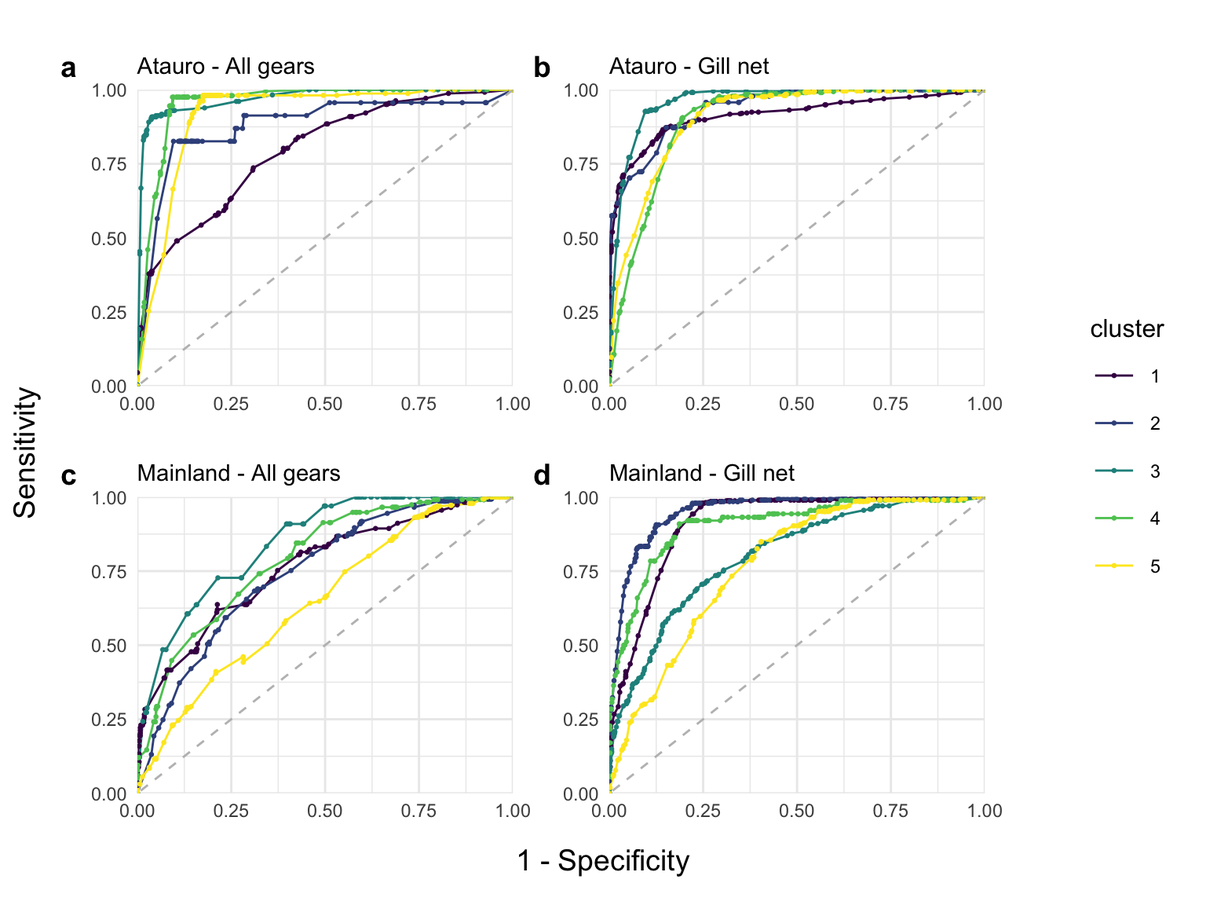
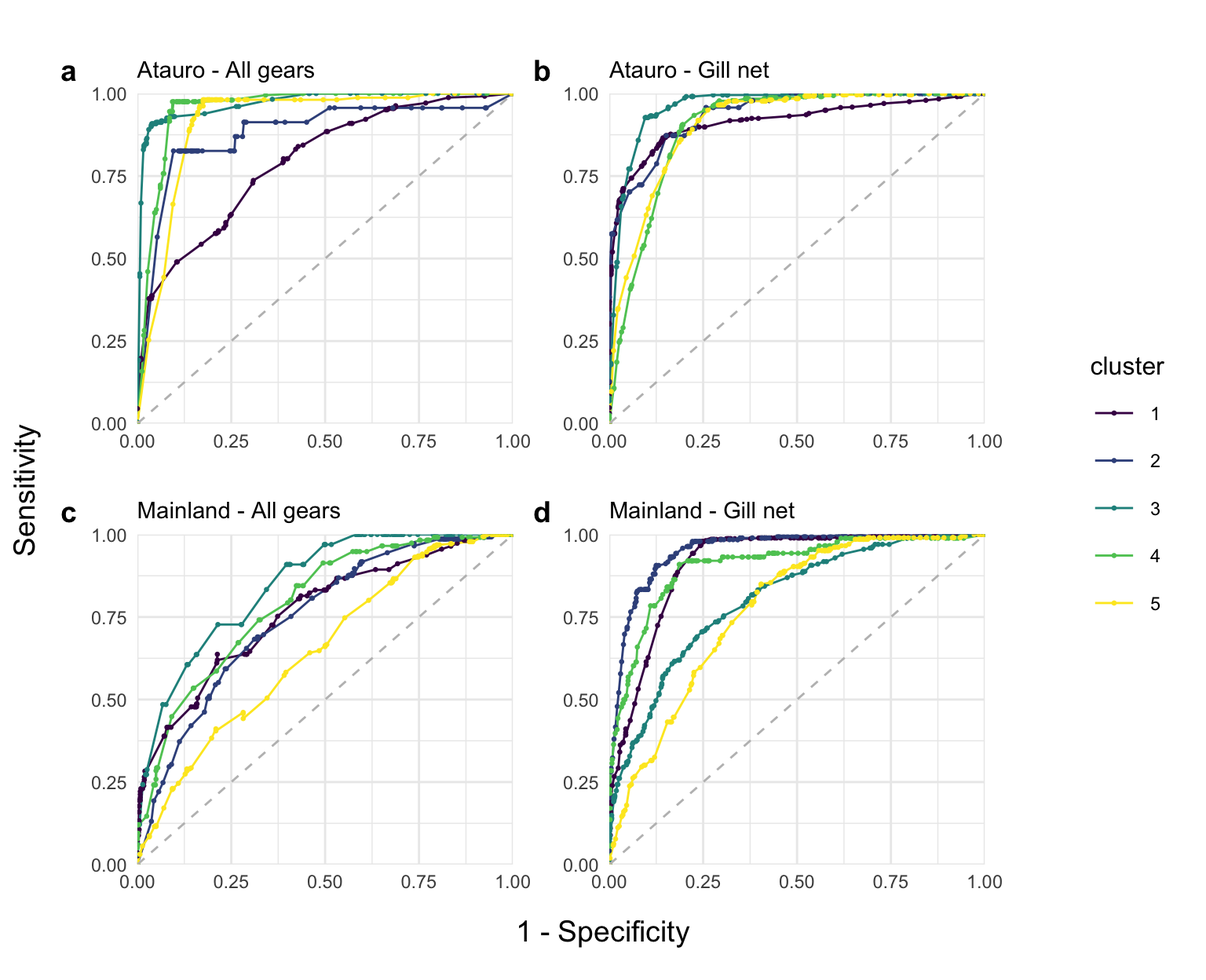
Test font change

diff --git a/docs/highlight.html b/docs/highlight.html
@@ -6,7 +6,7 @@
   <meta http-equiv="X-UA-Compatible" content="IE=edge" />
   <title>3 Highlight statistics | Modelling scenarios for nutrient-sensitive fisheries management</title>
   <meta name="description" content="3 Highlight statistics | Modelling scenarios for nutrient-sensitive fisheries management" />
-  <meta name="generator" content="bookdown 0.33 and GitBook 2.6.7" />
+  <meta name="generator" content="bookdown 0.36 and GitBook 2.6.7" />
 
   <meta property="og:title" content="3 Highlight statistics | Modelling scenarios for nutrient-sensitive fisheries management" />
   <meta property="og:type" content="book" />
@@ -62,6 +62,10 @@
 
 
 
+<style type="text/css">
+  
+  div.hanging-indent{margin-left: 1.5em; text-indent: -1.5em;}
+</style>
 
 <link rel="stylesheet" href="style.css" type="text/css" />
 </head>
@@ -184,8 +188,8 @@
 <ul>
 <li><strong>POPULATION MEETING RNI REQUIREMENTS</strong>: Percentage of the population meeting the RNI requirements in each municipality: <span class="math inline">\(\frac{Number\ of\ people\ supplied\ daily}{Municipality\ population} \times 100\)</span></li>
 </ul>
-<div class="reactable html-widget html-fill-item-overflow-hidden html-fill-item" id="htmlwidget-5ddebd04dfa8fb1aed57" style="width:auto;height:auto;"></div>
-<script type="application/json" data-for="htmlwidget-5ddebd04dfa8fb1aed57">{"x":{"tag":{"name":"Reactable","attribs":{"data":{"region":["Ainaro (   61,741)","Ainaro (   61,741)","Ainaro (   61,741)","Ainaro (   61,741)","Ainaro (   61,741)","Ainaro (   61,741)","Ainaro (   61,741)","Atauro (    8,940)","Atauro (    8,940)","Atauro (    8,940)","Atauro (    8,940)","Atauro (    8,940)","Atauro (    8,940)","Atauro (    8,940)","Baucau (  115,629)","Baucau (  115,629)","Baucau (  115,629)","Baucau (  115,629)","Baucau (  115,629)","Baucau (  115,629)","Baucau (  115,629)","Bobonaro (   91,349)","Bobonaro (   91,349)","Bobonaro (   91,349)","Bobonaro (   91,349)","Bobonaro (   91,349)","Bobonaro (   91,349)","Bobonaro (   91,349)","Covalima (   63,137)","Covalima (   63,137)","Covalima (   63,137)","Covalima (   63,137)","Covalima (   63,137)","Covalima (   63,137)","Covalima (   63,137)","Dili (  280,684)","Dili (  280,684)","Dili (  280,684)","Dili (  280,684)","Dili (  280,684)","Dili (  280,684)","Dili (  280,684)","Lautem (   60,015)","Lautem (   60,015)","Lautem (   60,015)","Lautem (   60,015)","Lautem (   60,015)","Lautem (   60,015)","Lautem (   60,015)","Liquica (   70,638)","Liquica (   70,638)","Liquica (   70,638)","Liquica (   70,638)","Liquica (   70,638)","Liquica (   70,638)","Liquica (   70,638)","Manatuto (   43,765)","Manatuto (   43,765)","Manatuto (   43,765)","Manatuto (   43,765)","Manatuto (   43,765)","Manatuto (   43,765)","Manatuto (   43,765)","Manufahi (   51,751)","Manufahi (   51,751)","Manufahi (   51,751)","Manufahi (   51,751)","Manufahi (   51,751)","Manufahi (   51,751)","Manufahi (   51,751)","Oecusse (   69,323)","Oecusse (   69,323)","Oecusse (   69,323)","Oecusse (   69,323)","Oecusse (   69,323)","Oecusse (   69,323)","Oecusse (   69,323)","Viqueque (   69,238)","Viqueque (   69,238)","Viqueque (   69,238)","Viqueque (   69,238)","Viqueque (   69,238)","Viqueque (   69,238)","Viqueque (   69,238)","All (1,148,745)","All (1,148,745)","All (1,148,745)","All (1,148,745)","All (1,148,745)","All (1,148,745)","All (1,148,745)"],"nutrient":["selenium","zinc","protein","omega3","calcium","iron","vitaminA","selenium","zinc","protein","omega3","calcium","iron","vitaminA","selenium","zinc","protein","omega3","calcium","iron","vitaminA","selenium","zinc","protein","omega3","calcium","iron","vitaminA","selenium","zinc","protein","omega3","calcium","iron","vitaminA","selenium","zinc","protein","omega3","calcium","iron","vitaminA","selenium","zinc","protein","omega3","calcium","iron","vitaminA","selenium","zinc","protein","omega3","calcium","iron","vitaminA","selenium","zinc","protein","omega3","calcium","iron","vitaminA","selenium","zinc","protein","omega3","calcium","iron","vitaminA","selenium","zinc","protein","omega3","calcium","iron","vitaminA","selenium","zinc","protein","omega3","calcium","iron","vitaminA","calcium","iron","omega3","protein","selenium","vitaminA","zinc"],"annual_kg":[0.0026,0.0734,1281.2364,85.8322,6.2225,0.053,0.0036,0.2565,7.0353,110624.3908,1321.4139,431.904,6.1758,0.3827,0.2712,3.7216,56770.4322,2293.123,1294.9779,5.7107,0.0557,0.4636,19.5957,285945.184,13982.3003,2002.7687,12.288,0.7547,0.1318,1.7577,29712.9206,770.5511,569.2205,2.995,0.0481,0.0792,1.5363,24989.4804,572.0959,201.1015,1.5263,0.083,0.6904,9.5248,175558.2303,3186.1136,2475.1306,13.5612,0.4665,0.2455,5.9866,103404.7398,2364.4126,380.12,5.2878,0.1916,0.5508,13.2767,206736.8211,13386.5385,2047.5802,12.5747,0.3108,0.0332,0.7118,10695.7839,667.8914,153.0258,0.7168,0.018,0.325,7.9081,145263.3251,2921.4496,512.818,7.3917,0.448,0.2048,3.0245,76786.0186,1557.8762,322.3643,3.4633,0.3158,10397.2341,71.7444,43109.5984,1227768.5633,3.2547,3.0784,74.1526],"people_supplied_daily":[1382.619,205.335,381.547,400.062,85.239,24.718,98.69,135121.57,19668.121,32943.535,6159.088,5916.493,2877.544,10484.156,142877.505,10404.216,16906.025,10688.208,17739.424,2660.857,1525.225,244282.433,54782.499,85153.42,65171.269,27435.188,5725.485,20677.599,69449.405,4913.826,8848.398,3591.526,7797.541,1395.478,1318.236,41727.626,4294.984,7441.775,2666.53,2754.815,711.145,2273.669,363760.896,26627.969,52280.593,14850.422,33905.898,6318.702,12780.859,129370.826,16736.245,30793.55,11020.488,5207.124,2463.806,5250.659,290219.089,37116.915,61565.462,62394.434,28049.044,5859.049,8514.013,17497.344,1990.066,3185.165,3113.031,2096.244,333.996,493.363,171212.999,22108.315,43258.882,13616.828,7024.904,3444.1,12273.328,107898.945,8455.389,22866.593,7261.235,4415.949,1613.701,8651.247,142427.864,33428.582,200933.122,365624.944,1714801.258,84341.045,207303.882],"percent_population_supplied":[2.239,0.333,0.618,0.648,0.138,0.04,0.16,1511.427,220.001,368.496,68.894,66.18,32.187,117.272,123.565,8.998,14.621,9.244,15.342,2.301,1.319,267.417,59.971,93.218,71.343,30.033,6.268,22.636,109.998,7.783,14.015,5.688,12.35,2.21,2.088,14.866,1.53,2.651,0.95,0.981,0.253,0.81,606.117,44.369,87.113,24.745,56.496,10.529,21.296,183.146,23.693,43.593,15.601,7.372,3.488,7.433,663.131,84.81,140.673,142.567,64.09,13.388,19.454,33.811,3.845,6.155,6.015,4.051,0.645,0.953,246.979,31.892,62.402,19.643,10.134,4.968,17.705,155.838,12.212,33.026,10.487,6.378,2.331,12.495,12.399,2.91,17.492,31.828,149.276,7.342,18.046]},"columns":[{"id":"region","name":"Municipality (population)","type":"factor","minWidth":140,"align":"center","sortable":false,"style":"function(rowInfo, column, state) {\n        const firstSorted = state.sorted[0]\n        if (!firstSorted || firstSorted.id === 'region') {\n          const prevRow = state.pageRows[rowInfo.viewIndex - 1]\n          if (prevRow && rowInfo.values['region'] === prevRow['region']) {\n            return { visibility: 'hidden' }\n          }\n        }\n      }"},{"id":"nutrient","name":"Nutrient","type":"character","minWidth":100,"align":"center"},{"id":"annual_kg","name":"Annual supply (Kg)","type":"numeric","minWidth":100,"align":"center","format":{"cell":{"separators":true},"aggregated":{"separators":true}},"style":[{"background":"#F5FCDF"},{"background":"#F4FBDD"},{"background":"#9CD7AC"},{"background":"#BDE6B2"},{"background":"#E0F4C5"},{"background":"#F4FBDE"},{"background":"#F4FBDE"},{"background":"#F4FBDB"},{"background":"#DFF4C4"},{"background":"#59BDAB"},{"background":"#9BD6AC"},{"background":"#A9DDAE"},{"background":"#E0F4C5"},{"background":"#F3FBDA"},{"background":"#F4FBDB"},{"background":"#E7F7CA"},{"background":"#64C1AB"},{"background":"#94D3AB"},{"background":"#9BD7AC"},{"background":"#E2F5C6"},{"background":"#F4FBDE"},{"background":"#F3FBD9"},{"background":"#D0EEB9"},{"background":"#4BB8AB"},{"background":"#79C9AB"},{"background":"#96D4AB"},{"background":"#D7F1BE"},{"background":"#F3FBD6"},{"background":"#F4FBDD"},{"background":"#EFFAD0"},{"background":"#6EC5AB"},{"background":"#A2DAAD"},{"background":"#A6DBAE"},{"background":"#EAF8CC"},{"background":"#F4FBDE"},{"background":"#F4FBDD"},{"background":"#F1FAD1"},{"background":"#70C6AB"},{"background":"#A5DBAE"},{"background":"#B2E1B0"},{"background":"#F1FAD1"},{"background":"#F4FBDD"},{"background":"#F3FBD7"},{"background":"#DAF2C1"},{"background":"#52BBAB"},{"background":"#90D1AB"},{"background":"#93D3AB"},{"background":"#D5F0BD"},{"background":"#F3FBD9"},{"background":"#F4FBDB"},{"background":"#E1F4C5"},{"background":"#5ABEAB"},{"background":"#94D3AB"},{"background":"#AADEAE"},{"background":"#E3F5C7"},{"background":"#F4FBDC"},{"background":"#F3FBD8"},{"background":"#D6F0BD"},{"background":"#50BAAB"},{"background":"#7AC9AB"},{"background":"#96D4AB"},{"background":"#D7F1BE"},{"background":"#F4FBDB"},{"background":"#F4FBDE"},{"background":"#F3FBD7"},{"background":"#7DCBAB"},{"background":"#A4DAAD"},{"background":"#B6E3B0"},{"background":"#F3FBD7"},{"background":"#F4FBDE"},{"background":"#F4FBDA"},{"background":"#DDF3C3"},{"background":"#55BCAB"},{"background":"#91D2AB"},{"background":"#A7DCAE"},{"background":"#DEF3C3"},{"background":"#F3FBD9"},{"background":"#F4FBDC"},{"background":"#E9F8CC"},{"background":"#5FBFAB"},{"background":"#99D6AC"},{"background":"#ACDFAF"},{"background":"#E8F7CA"},{"background":"#F4FBDA"},{"background":"#7ECBAB"},{"background":"#BFE7B2"},{"background":"#68C3AB"},{"background":"#35B0AB"},{"background":"#E9F7CB"},{"background":"#E9F7CB"},{"background":"#BEE7B2"}]},{"id":"people_supplied_daily","name":"N. people supplied daily","type":"numeric","minWidth":100,"align":"center","format":{"cell":{"separators":true},"aggregated":{"separators":true}},"style":[{"background":"#B6E3B0"},{"background":"#D6F1BE"},{"background":"#CAECB5"},{"background":"#C9ECB4"},{"background":"#E7F7CA"},{"background":"#F5FCDF"},{"background":"#E4F6C8"},{"background":"#66C2AB"},{"background":"#8BD0AB"},{"background":"#81CCAB"},{"background":"#9ED8AC"},{"background":"#9FD8AD"},{"background":"#AADEAE"},{"background":"#96D4AB"},{"background":"#65C1AB"},{"background":"#96D4AB"},{"background":"#8ED1AB"},{"background":"#96D4AB"},{"background":"#8DD0AB"},{"background":"#ACDEAF"},{"background":"#B4E2B0"},{"background":"#5ABEAB"},{"background":"#77C8AB"},{"background":"#6FC5AB"},{"background":"#74C7AB"},{"background":"#84CDAB"},{"background":"#A0D9AD"},{"background":"#8ACFAB"},{"background":"#73C7AB"},{"background":"#A2DAAD"},{"background":"#99D5AC"},{"background":"#A7DCAE"},{"background":"#9BD6AC"},{"background":"#B6E3B0"},{"background":"#B6E3B0"},{"background":"#7CCAAB"},{"background":"#A4DBAD"},{"background":"#9CD7AC"},{"background":"#ABDEAF"},{"background":"#ABDEAF"},{"background":"#C0E8B2"},{"background":"#AEDFAF"},{"background":"#52BBAB"},{"background":"#85CDAB"},{"background":"#78C9AB"},{"background":"#90D2AB"},{"background":"#80CCAB"},{"background":"#9ED8AC"},{"background":"#93D3AB"},{"background":"#66C2AB"},{"background":"#8ED1AB"},{"background":"#82CCAB"},{"background":"#95D4AB"},{"background":"#A1D9AD"},{"background":"#ADDFAF"},{"background":"#A1D9AD"},{"background":"#57BCAB"},{"background":"#7FCBAB"},{"background":"#75C7AB"},{"background":"#75C7AB"},{"background":"#84CDAB"},{"background":"#9FD8AD"},{"background":"#99D6AC"},{"background":"#8DD1AB"},{"background":"#B0E0AF"},{"background":"#A9DDAE"},{"background":"#A9DDAE"},{"background":"#AFE0AF"},{"background":"#CDEDB7"},{"background":"#C6EAB3"},{"background":"#61C0AB"},{"background":"#89CFAB"},{"background":"#7CCAAB"},{"background":"#92D2AB"},{"background":"#9CD7AC"},{"background":"#A8DCAE"},{"background":"#94D3AB"},{"background":"#6AC3AB"},{"background":"#9AD6AC"},{"background":"#88CFAB"},{"background":"#9CD7AC"},{"background":"#A4DAAD"},{"background":"#B3E2B0"},{"background":"#99D6AC"},{"background":"#65C1AB"},{"background":"#81CCAB"},{"background":"#5EBFAB"},{"background":"#52BBAB"},{"background":"#35B0AB"},{"background":"#6FC5AB"},{"background":"#5DBFAB"}]},{"id":"percent_population_supplied","name":"Population meeting RNI requirements","type":"numeric","minWidth":100,"align":"center","format":{"cell":{"suffix":"%","separators":true},"aggregated":{"suffix":"%","separators":true}},"html":true,"style":[{"background":"#DDF3C3"},{"background":"#F3FBD7"},{"background":"#F2FBD2"},{"background":"#F1FAD1"},{"background":"#F4FBDC"},{"background":"#F5FCDF"},{"background":"#F4FBDB"},{"background":"#35B0AB"},{"background":"#6DC5AB"},{"background":"#5EBFAB"},{"background":"#8FD1AB"},{"background":"#90D2AB"},{"background":"#A2D9AD"},{"background":"#80CBAB"},{"background":"#7ECBAB"},{"background":"#BEE7B2"},{"background":"#B3E2B0"},{"background":"#BDE6B2"},{"background":"#B2E1B0"},{"background":"#DCF3C2"},{"background":"#E7F7CA"},{"background":"#68C2AB"},{"background":"#93D3AB"},{"background":"#86CEAB"},{"background":"#8ED1AB"},{"background":"#A3DAAD"},{"background":"#C6EAB3"},{"background":"#AADDAE"},{"background":"#82CCAB"},{"background":"#C1E8B2"},{"background":"#B4E2B0"},{"background":"#C8EBB3"},{"background":"#B7E3B1"},{"background":"#DDF3C3"},{"background":"#DEF4C4"},{"background":"#B3E2B0"},{"background":"#E4F6C8"},{"background":"#D9F2C0"},{"background":"#ECF9CE"},{"background":"#ECF8CD"},{"background":"#F3FBD9"},{"background":"#EFF9CF"},{"background":"#4FBAAB"},{"background":"#9AD6AC"},{"background":"#88CFAB"},{"background":"#A8DCAE"},{"background":"#94D3AB"},{"background":"#BBE5B1"},{"background":"#ABDEAF"},{"background":"#73C7AB"},{"background":"#A9DDAE"},{"background":"#9BD6AC"},{"background":"#B2E1B0"},{"background":"#C2E9B2"},{"background":"#D3EFBB"},{"background":"#C2E9B2"},{"background":"#4DB9AB"},{"background":"#89CFAB"},{"background":"#7ACAAB"},{"background":"#7AC9AB"},{"background":"#91D2AB"},{"background":"#B5E3B0"},{"background":"#ADDFAF"},{"background":"#A0D9AD"},{"background":"#D1EFBA"},{"background":"#C6EAB3"},{"background":"#C6EBB3"},{"background":"#D0EEB9"},{"background":"#F1FAD1"},{"background":"#ECF9CE"},{"background":"#6AC3AB"},{"background":"#A2DAAD"},{"background":"#92D2AB"},{"background":"#ADDFAF"},{"background":"#BBE5B1"},{"background":"#CBECB5"},{"background":"#AFE0AF"},{"background":"#77C8AB"},{"background":"#B7E4B1"},{"background":"#A1D9AD"},{"background":"#BBE5B1"},{"background":"#C5EAB3"},{"background":"#DCF3C2"},{"background":"#B7E3B1"},{"background":"#B7E3B1"},{"background":"#D7F1BE"},{"background":"#AFE0AF"},{"background":"#A2DAAD"},{"background":"#79C9AB"},{"background":"#C2E9B2"},{"background":"#AFE0AF"}]}],"groupBy":["region"],"filterable":true,"pagination":false,"defaultExpanded":true,"outlined":true,"rowStyle":"\n    function(rowInfo, state) {\n      // Ignore padding rows\n      if (!rowInfo) return\n\n      // Add horizontal separators between groups when sorting by school\n      const firstSorted = state.sorted[0]\n      if (firstSorted && firstSorted.id === 'region') {\n        const nextRow = state.pageRows[rowInfo.viewIndex + 1]\n        if (nextRow && rowInfo.values['region'] !== nextRow['region']) {\n          // Use box-shadow to add a 2px border without taking extra space\n          return { boxShadow: 'inset 0 -2px 0 rgba(0, 0, 0, 0.1)' }\n        }\n      }\n    }\n  ","theme":{"color":"#222222","backgroundColor":"#ffffff","borderColor":"#dddddd","borderWidth":"1px","stripedColor":"#dddddd","highlightColor":"#f0f0f0","cellPadding":5,"tableStyle":{"fontSize":14,"borderBottom":"3px solid #222222"},"headerStyle":{"borderWidth":"3px","paddingTop":"12px","verticalAlign":"bottom","textAlign":"bottom","background":"#ffffff","textTransform":"uppercase","borderColor":"#222222","color":"#000000","&:hover":{"background":"#dddddd"},"&[aria-sort='ascending'], &[aria-sort='descending']":{"background":"#5b5e5f","color":"#ffffff"},"borderColor.1":"#333","fontSize":12},"groupHeaderStyle":{"&:not(:empty)":{"paddingBottom":"3px","verticalAlign":"bottom","textAlign":"bottom","backgroundColor":"#ffffff","textTransform":"uppercase","fontSize":12,"color":"#222222"}},"rowSelectedStyle":{"backgroundColor":"#dddddd"},"cellStyle":{"display":"flex","flexDirection":"column","justifyContent":"center"},"inputStyle":{"backgroundColor":"#ffffff","color":"#222222"},"searchInputStyle":{"textTransform":"uppercase","color":"#222222","fontSize":"14px"},"paginationStyle":{"textTransform":"uppercase","fontSize":"14px"},"pageButtonStyle":{"textTransform":"uppercase","fontSize":"14px"}},"dataKey":"b0a6206a93afb054d0c5c74618b583fe"},"children":[]},"class":"reactR_markup"},"evals":["tag.attribs.columns.0.style","tag.attribs.rowStyle"],"jsHooks":[]}</script>
+<div class="reactable html-widget html-fill-item-overflow-hidden html-fill-item" id="htmlwidget-09d8550bf6b0f35de82b" style="width:auto;height:auto;"></div>
+<script type="application/json" data-for="htmlwidget-09d8550bf6b0f35de82b">{"x":{"tag":{"name":"Reactable","attribs":{"data":{"region":["Ainaro (   61,741)","Ainaro (   61,741)","Ainaro (   61,741)","Ainaro (   61,741)","Ainaro (   61,741)","Ainaro (   61,741)","Ainaro (   61,741)","Atauro (    8,940)","Atauro (    8,940)","Atauro (    8,940)","Atauro (    8,940)","Atauro (    8,940)","Atauro (    8,940)","Atauro (    8,940)","Baucau (  115,629)","Baucau (  115,629)","Baucau (  115,629)","Baucau (  115,629)","Baucau (  115,629)","Baucau (  115,629)","Baucau (  115,629)","Bobonaro (   91,349)","Bobonaro (   91,349)","Bobonaro (   91,349)","Bobonaro (   91,349)","Bobonaro (   91,349)","Bobonaro (   91,349)","Bobonaro (   91,349)","Covalima (   63,137)","Covalima (   63,137)","Covalima (   63,137)","Covalima (   63,137)","Covalima (   63,137)","Covalima (   63,137)","Covalima (   63,137)","Dili (  280,684)","Dili (  280,684)","Dili (  280,684)","Dili (  280,684)","Dili (  280,684)","Dili (  280,684)","Dili (  280,684)","Lautem (   60,015)","Lautem (   60,015)","Lautem (   60,015)","Lautem (   60,015)","Lautem (   60,015)","Lautem (   60,015)","Lautem (   60,015)","Liquica (   70,638)","Liquica (   70,638)","Liquica (   70,638)","Liquica (   70,638)","Liquica (   70,638)","Liquica (   70,638)","Liquica (   70,638)","Manatuto (   43,765)","Manatuto (   43,765)","Manatuto (   43,765)","Manatuto (   43,765)","Manatuto (   43,765)","Manatuto (   43,765)","Manatuto (   43,765)","Manufahi (   51,751)","Manufahi (   51,751)","Manufahi (   51,751)","Manufahi (   51,751)","Manufahi (   51,751)","Manufahi (   51,751)","Manufahi (   51,751)","Oecusse (   69,323)","Oecusse (   69,323)","Oecusse (   69,323)","Oecusse (   69,323)","Oecusse (   69,323)","Oecusse (   69,323)","Oecusse (   69,323)","Viqueque (   69,238)","Viqueque (   69,238)","Viqueque (   69,238)","Viqueque (   69,238)","Viqueque (   69,238)","Viqueque (   69,238)","Viqueque (   69,238)","All (1,148,745)","All (1,148,745)","All (1,148,745)","All (1,148,745)","All (1,148,745)","All (1,148,745)","All (1,148,745)"],"nutrient":["selenium","zinc","protein","omega3","calcium","iron","vitaminA","selenium","zinc","protein","omega3","calcium","iron","vitaminA","selenium","zinc","protein","omega3","calcium","iron","vitaminA","selenium","zinc","protein","omega3","calcium","iron","vitaminA","selenium","zinc","protein","omega3","calcium","iron","vitaminA","selenium","zinc","protein","omega3","calcium","iron","vitaminA","selenium","zinc","protein","omega3","calcium","iron","vitaminA","selenium","zinc","protein","omega3","calcium","iron","vitaminA","selenium","zinc","protein","omega3","calcium","iron","vitaminA","selenium","zinc","protein","omega3","calcium","iron","vitaminA","selenium","zinc","protein","omega3","calcium","iron","vitaminA","selenium","zinc","protein","omega3","calcium","iron","vitaminA","calcium","iron","omega3","protein","selenium","vitaminA","zinc"],"annual_kg":[0.0026,0.0734,1281.2364,85.8322,6.2225,0.053,0.0036,0.2565,7.0353,110624.3908,1321.4139,431.904,6.1758,0.3827,0.2712,3.7216,56770.4322,2293.123,1294.9779,5.7107,0.0557,0.4636,19.5957,285945.184,13982.3003,2002.7687,12.288,0.7547,0.1318,1.7577,29712.9206,770.5511,569.2205,2.995,0.0481,0.0792,1.5363,24989.4804,572.0959,201.1015,1.5263,0.083,0.6904,9.5248,175558.2303,3186.1136,2475.1306,13.5612,0.4665,0.2455,5.9866,103404.7398,2364.4126,380.12,5.2878,0.1916,0.5508,13.2767,206736.8211,13386.5385,2047.5802,12.5747,0.3108,0.0332,0.7118,10695.7839,667.8914,153.0258,0.7168,0.018,0.325,7.9081,145263.3251,2921.4496,512.818,7.3917,0.448,0.2048,3.0245,76786.0186,1557.8762,322.3643,3.4633,0.3158,10397.2341,71.7444,43109.5984,1227768.5633,3.2547,3.0784,74.1526],"people_supplied_daily":[1382.619,205.335,381.547,400.062,85.239,24.718,98.69,135121.57,19668.121,32943.535,6159.088,5916.493,2877.544,10484.156,142877.505,10404.216,16906.025,10688.208,17739.424,2660.857,1525.225,244282.433,54782.499,85153.42,65171.269,27435.188,5725.485,20677.599,69449.405,4913.826,8848.398,3591.526,7797.541,1395.478,1318.236,41727.626,4294.984,7441.775,2666.53,2754.815,711.145,2273.669,363760.896,26627.969,52280.593,14850.422,33905.898,6318.702,12780.859,129370.826,16736.245,30793.55,11020.488,5207.124,2463.806,5250.659,290219.089,37116.915,61565.462,62394.434,28049.044,5859.049,8514.013,17497.344,1990.066,3185.165,3113.031,2096.244,333.996,493.363,171212.999,22108.315,43258.882,13616.828,7024.904,3444.1,12273.328,107898.945,8455.389,22866.593,7261.235,4415.949,1613.701,8651.247,142427.864,33428.582,200933.122,365624.944,1714801.258,84341.045,207303.882],"percent_population_supplied":[2.239,0.333,0.618,0.648,0.138,0.04,0.16,1511.427,220.001,368.496,68.894,66.18,32.187,117.272,123.565,8.998,14.621,9.244,15.342,2.301,1.319,267.417,59.971,93.218,71.343,30.033,6.268,22.636,109.998,7.783,14.015,5.688,12.35,2.21,2.088,14.866,1.53,2.651,0.95,0.981,0.253,0.81,606.117,44.369,87.113,24.745,56.496,10.529,21.296,183.146,23.693,43.593,15.601,7.372,3.488,7.433,663.131,84.81,140.673,142.567,64.09,13.388,19.454,33.811,3.845,6.155,6.015,4.051,0.645,0.953,246.979,31.892,62.402,19.643,10.134,4.968,17.705,155.838,12.212,33.026,10.487,6.378,2.331,12.495,12.399,2.91,17.492,31.828,149.276,7.342,18.046]},"columns":[{"id":"region","name":"Municipality (population)","type":"factor","minWidth":140,"align":"center","sortable":false,"style":"function(rowInfo, column, state) {\n        const firstSorted = state.sorted[0]\n        if (!firstSorted || firstSorted.id === 'region') {\n          const prevRow = state.pageRows[rowInfo.viewIndex - 1]\n          if (prevRow && rowInfo.values['region'] === prevRow['region']) {\n            return { visibility: 'hidden' }\n          }\n        }\n      }"},{"id":"nutrient","name":"Nutrient","type":"character","minWidth":100,"align":"center"},{"id":"annual_kg","name":"Annual supply (Kg)","type":"numeric","minWidth":100,"align":"center","format":{"cell":{"separators":true},"aggregated":{"separators":true}},"style":[{"background":"#F5FCDF"},{"background":"#F4FBDD"},{"background":"#9CD7AC"},{"background":"#BDE6B2"},{"background":"#E0F4C5"},{"background":"#F4FBDE"},{"background":"#F4FBDE"},{"background":"#F4FBDB"},{"background":"#DFF4C4"},{"background":"#59BDAB"},{"background":"#9BD6AC"},{"background":"#A9DDAE"},{"background":"#E0F4C5"},{"background":"#F3FBDA"},{"background":"#F4FBDB"},{"background":"#E7F7CA"},{"background":"#64C1AB"},{"background":"#94D3AB"},{"background":"#9BD7AC"},{"background":"#E2F5C6"},{"background":"#F4FBDE"},{"background":"#F3FBD9"},{"background":"#D0EEB9"},{"background":"#4BB8AB"},{"background":"#79C9AB"},{"background":"#96D4AB"},{"background":"#D7F1BE"},{"background":"#F3FBD6"},{"background":"#F4FBDD"},{"background":"#EFFAD0"},{"background":"#6EC5AB"},{"background":"#A2DAAD"},{"background":"#A6DBAE"},{"background":"#EAF8CC"},{"background":"#F4FBDE"},{"background":"#F4FBDD"},{"background":"#F1FAD1"},{"background":"#70C6AB"},{"background":"#A5DBAE"},{"background":"#B2E1B0"},{"background":"#F1FAD1"},{"background":"#F4FBDD"},{"background":"#F3FBD7"},{"background":"#DAF2C1"},{"background":"#52BBAB"},{"background":"#90D1AB"},{"background":"#93D3AB"},{"background":"#D5F0BD"},{"background":"#F3FBD9"},{"background":"#F4FBDB"},{"background":"#E1F4C5"},{"background":"#5ABEAB"},{"background":"#94D3AB"},{"background":"#AADEAE"},{"background":"#E3F5C7"},{"background":"#F4FBDC"},{"background":"#F3FBD8"},{"background":"#D6F0BD"},{"background":"#50BAAB"},{"background":"#7AC9AB"},{"background":"#96D4AB"},{"background":"#D7F1BE"},{"background":"#F4FBDB"},{"background":"#F4FBDE"},{"background":"#F3FBD7"},{"background":"#7DCBAB"},{"background":"#A4DAAD"},{"background":"#B6E3B0"},{"background":"#F3FBD7"},{"background":"#F4FBDE"},{"background":"#F4FBDA"},{"background":"#DDF3C3"},{"background":"#55BCAB"},{"background":"#91D2AB"},{"background":"#A7DCAE"},{"background":"#DEF3C3"},{"background":"#F3FBD9"},{"background":"#F4FBDC"},{"background":"#E9F8CC"},{"background":"#5FBFAB"},{"background":"#99D6AC"},{"background":"#ACDFAF"},{"background":"#E8F7CA"},{"background":"#F4FBDA"},{"background":"#7ECBAB"},{"background":"#BFE7B2"},{"background":"#68C3AB"},{"background":"#35B0AB"},{"background":"#E9F7CB"},{"background":"#E9F7CB"},{"background":"#BEE7B2"}]},{"id":"people_supplied_daily","name":"N. people supplied daily","type":"numeric","minWidth":100,"align":"center","format":{"cell":{"separators":true},"aggregated":{"separators":true}},"style":[{"background":"#B6E3B0"},{"background":"#D6F1BE"},{"background":"#CAECB5"},{"background":"#C9ECB4"},{"background":"#E7F7CA"},{"background":"#F5FCDF"},{"background":"#E4F6C8"},{"background":"#66C2AB"},{"background":"#8BD0AB"},{"background":"#81CCAB"},{"background":"#9ED8AC"},{"background":"#9FD8AD"},{"background":"#AADEAE"},{"background":"#96D4AB"},{"background":"#65C1AB"},{"background":"#96D4AB"},{"background":"#8ED1AB"},{"background":"#96D4AB"},{"background":"#8DD0AB"},{"background":"#ACDEAF"},{"background":"#B4E2B0"},{"background":"#5ABEAB"},{"background":"#77C8AB"},{"background":"#6FC5AB"},{"background":"#74C7AB"},{"background":"#84CDAB"},{"background":"#A0D9AD"},{"background":"#8ACFAB"},{"background":"#73C7AB"},{"background":"#A2DAAD"},{"background":"#99D5AC"},{"background":"#A7DCAE"},{"background":"#9BD6AC"},{"background":"#B6E3B0"},{"background":"#B6E3B0"},{"background":"#7CCAAB"},{"background":"#A4DBAD"},{"background":"#9CD7AC"},{"background":"#ABDEAF"},{"background":"#ABDEAF"},{"background":"#C0E8B2"},{"background":"#AEDFAF"},{"background":"#52BBAB"},{"background":"#85CDAB"},{"background":"#78C9AB"},{"background":"#90D2AB"},{"background":"#80CCAB"},{"background":"#9ED8AC"},{"background":"#93D3AB"},{"background":"#66C2AB"},{"background":"#8ED1AB"},{"background":"#82CCAB"},{"background":"#95D4AB"},{"background":"#A1D9AD"},{"background":"#ADDFAF"},{"background":"#A1D9AD"},{"background":"#57BCAB"},{"background":"#7FCBAB"},{"background":"#75C7AB"},{"background":"#75C7AB"},{"background":"#84CDAB"},{"background":"#9FD8AD"},{"background":"#99D6AC"},{"background":"#8DD1AB"},{"background":"#B0E0AF"},{"background":"#A9DDAE"},{"background":"#A9DDAE"},{"background":"#AFE0AF"},{"background":"#CDEDB7"},{"background":"#C6EAB3"},{"background":"#61C0AB"},{"background":"#89CFAB"},{"background":"#7CCAAB"},{"background":"#92D2AB"},{"background":"#9CD7AC"},{"background":"#A8DCAE"},{"background":"#94D3AB"},{"background":"#6AC3AB"},{"background":"#9AD6AC"},{"background":"#88CFAB"},{"background":"#9CD7AC"},{"background":"#A4DAAD"},{"background":"#B3E2B0"},{"background":"#99D6AC"},{"background":"#65C1AB"},{"background":"#81CCAB"},{"background":"#5EBFAB"},{"background":"#52BBAB"},{"background":"#35B0AB"},{"background":"#6FC5AB"},{"background":"#5DBFAB"}]},{"id":"percent_population_supplied","name":"Population meeting RNI requirements","type":"numeric","minWidth":100,"align":"center","format":{"cell":{"suffix":"%","separators":true},"aggregated":{"suffix":"%","separators":true}},"html":true,"style":[{"background":"#DDF3C3"},{"background":"#F3FBD7"},{"background":"#F2FBD2"},{"background":"#F1FAD1"},{"background":"#F4FBDC"},{"background":"#F5FCDF"},{"background":"#F4FBDB"},{"background":"#35B0AB"},{"background":"#6DC5AB"},{"background":"#5EBFAB"},{"background":"#8FD1AB"},{"background":"#90D2AB"},{"background":"#A2D9AD"},{"background":"#80CBAB"},{"background":"#7ECBAB"},{"background":"#BEE7B2"},{"background":"#B3E2B0"},{"background":"#BDE6B2"},{"background":"#B2E1B0"},{"background":"#DCF3C2"},{"background":"#E7F7CA"},{"background":"#68C2AB"},{"background":"#93D3AB"},{"background":"#86CEAB"},{"background":"#8ED1AB"},{"background":"#A3DAAD"},{"background":"#C6EAB3"},{"background":"#AADDAE"},{"background":"#82CCAB"},{"background":"#C1E8B2"},{"background":"#B4E2B0"},{"background":"#C8EBB3"},{"background":"#B7E3B1"},{"background":"#DDF3C3"},{"background":"#DEF4C4"},{"background":"#B3E2B0"},{"background":"#E4F6C8"},{"background":"#D9F2C0"},{"background":"#ECF9CE"},{"background":"#ECF8CD"},{"background":"#F3FBD9"},{"background":"#EFF9CF"},{"background":"#4FBAAB"},{"background":"#9AD6AC"},{"background":"#88CFAB"},{"background":"#A8DCAE"},{"background":"#94D3AB"},{"background":"#BBE5B1"},{"background":"#ABDEAF"},{"background":"#73C7AB"},{"background":"#A9DDAE"},{"background":"#9BD6AC"},{"background":"#B2E1B0"},{"background":"#C2E9B2"},{"background":"#D3EFBB"},{"background":"#C2E9B2"},{"background":"#4DB9AB"},{"background":"#89CFAB"},{"background":"#7ACAAB"},{"background":"#7AC9AB"},{"background":"#91D2AB"},{"background":"#B5E3B0"},{"background":"#ADDFAF"},{"background":"#A0D9AD"},{"background":"#D1EFBA"},{"background":"#C6EAB3"},{"background":"#C6EBB3"},{"background":"#D0EEB9"},{"background":"#F1FAD1"},{"background":"#ECF9CE"},{"background":"#6AC3AB"},{"background":"#A2DAAD"},{"background":"#92D2AB"},{"background":"#ADDFAF"},{"background":"#BBE5B1"},{"background":"#CBECB5"},{"background":"#AFE0AF"},{"background":"#77C8AB"},{"background":"#B7E4B1"},{"background":"#A1D9AD"},{"background":"#BBE5B1"},{"background":"#C5EAB3"},{"background":"#DCF3C2"},{"background":"#B7E3B1"},{"background":"#B7E3B1"},{"background":"#D7F1BE"},{"background":"#AFE0AF"},{"background":"#A2DAAD"},{"background":"#79C9AB"},{"background":"#C2E9B2"},{"background":"#AFE0AF"}]}],"groupBy":["region"],"filterable":true,"pagination":false,"defaultExpanded":true,"outlined":true,"rowStyle":"\n    function(rowInfo, state) {\n      // Ignore padding rows\n      if (!rowInfo) return\n\n      // Add horizontal separators between groups when sorting by school\n      const firstSorted = state.sorted[0]\n      if (firstSorted && firstSorted.id === 'region') {\n        const nextRow = state.pageRows[rowInfo.viewIndex + 1]\n        if (nextRow && rowInfo.values['region'] !== nextRow['region']) {\n          // Use box-shadow to add a 2px border without taking extra space\n          return { boxShadow: 'inset 0 -2px 0 rgba(0, 0, 0, 0.1)' }\n        }\n      }\n    }\n  ","theme":{"color":"#222222","backgroundColor":"#ffffff","borderColor":"#dddddd","borderWidth":"1px","stripedColor":"#dddddd","highlightColor":"#f0f0f0","cellPadding":5,"tableStyle":{"fontSize":14,"borderBottom":"3px solid #222222"},"headerStyle":{"borderWidth":"3px","paddingTop":"12px","verticalAlign":"bottom","textAlign":"bottom","background":"#ffffff","textTransform":"uppercase","borderColor":"#222222","color":"#000000","&:hover":{"background":"#dddddd"},"&[aria-sort='ascending'], &[aria-sort='descending']":{"background":"#5b5e5f","color":"#ffffff"},"borderColor.1":"#333","fontSize":12},"groupHeaderStyle":{"&:not(:empty)":{"paddingBottom":"3px","verticalAlign":"bottom","textAlign":"bottom","backgroundColor":"#ffffff","textTransform":"uppercase","fontSize":12,"color":"#222222"}},"rowSelectedStyle":{"backgroundColor":"#dddddd"},"cellStyle":{"display":"flex","flexDirection":"column","justifyContent":"center"},"inputStyle":{"backgroundColor":"#ffffff","color":"#222222"},"searchInputStyle":{"textTransform":"uppercase","color":"#222222","fontSize":"14px"},"paginationStyle":{"textTransform":"uppercase","fontSize":"14px"},"pageButtonStyle":{"textTransform":"uppercase","fontSize":"14px"}},"dataKey":"b0a6206a93afb054d0c5c74618b583fe"},"children":[]},"class":"reactR_markup"},"evals":["tag.attribs.columns.0.style","tag.attribs.rowStyle"],"jsHooks":[]}</script>
 
 </div>
 </div>

diff --git a/docs/profiles.html b/docs/profiles.html
@@ -6,7 +6,7 @@
   <meta http-equiv="X-UA-Compatible" content="IE=edge" />
   <title>5 Timor SSF nutrient profiles | Modelling scenarios for nutrient-sensitive fisheries management</title>
   <meta name="description" content="5 Timor SSF nutrient profiles | Modelling scenarios for nutrient-sensitive fisheries management" />
-  <meta name="generator" content="bookdown 0.33 and GitBook 2.6.7" />
+  <meta name="generator" content="bookdown 0.36 and GitBook 2.6.7" />
 
   <meta property="og:title" content="5 Timor SSF nutrient profiles | Modelling scenarios for nutrient-sensitive fisheries management" />
   <meta property="og:type" content="book" />
@@ -62,6 +62,10 @@
 
 
 
+<style type="text/css">
+  
+  div.hanging-indent{margin-left: 1.5em; text-indent: -1.5em;}
+</style>
 
 <link rel="stylesheet" href="style.css" type="text/css" />
 </head>
@@ -177,8 +181,8 @@ Figure 5.2: Distribution of nutrient adequacy across k-means clusters. The bar c
 </div>
 <p>The PERMANOVA analyses (see table below) revealed statistically significant differences between clusters, suggesting robust groupings based on the nutrient profiles. The pseudo-F statistics were remarkably high in all cases, indicating strong differentiation between clusters. Specifically, the R² values were 0.86, 0.82, 0.85, and 0.92 for Atauro AG, Atauro GN, Timor AG, and Timor GN respectively, indicating that between 82% to 92% of the variance in nutrient concentrations was explained by the clusters. The high R² values underscore the distinctness of the clusters, reinforcing the validity of the K-means clustering.</p>
 <p>These findings were consistent across the datasets, with p-values below 0.001, providing clear evidence to reject the null hypothesis of no difference between clusters. Hence, the PERMANOVA results robustly support the effectiveness of the K-means algorithm in capturing meaningful patterns in nutrient profiles.</p>
-<div class="reactable html-widget html-fill-item-overflow-hidden html-fill-item" id="htmlwidget-b26055c579fa9f5c1193" style="width:auto;height:auto;"></div>
-<script type="application/json" data-for="htmlwidget-b26055c579fa9f5c1193">{"x":{"tag":{"name":"Reactable","attribs":{"data":{"subset":["atauro_AG_","atauro_AG_","atauro_AG_","atauro_GN_","atauro_GN_","atauro_GN_","timor_AG_","timor_AG_","timor_AG_","timor_GN_","timor_GN_","timor_GN_"],"term":["clusters","Residual","Total","clusters","Residual","Total","clusters","Residual","Total","clusters","Residual","Total"],"df":[4,4263,4267,4,7839,7843,4,3793,3797,4,6118,6122],"SumOfSqs":[10282.81,1696.62,11979.43,15595.87,3431.6,19027.47,24165.4,4244.24,28409.64,52086.36,4617.77,56704.14],"R2":[0.86,0.14,1,0.82,0.18,1,0.85,0.15,1,0.92,0.08,1],"statistic":[6459.27,"NA","NA",8906.63,"NA","NA",5399.05,"NA","NA",17252.06,"NA","NA"],"p.value":["< 0.001",null,null,"< 0.001",null,null,"< 0.001",null,null,"< 0.001",null,null]},"columns":[{"id":"subset","name":"subset","type":"character","align":"center","minWidth":120},{"id":"term","name":"term","type":"character","align":"center"},{"id":"df","name":"df","type":"numeric","align":"center"},{"id":"SumOfSqs","name":"SumOfSqs","type":"numeric","align":"center"},{"id":"R2","name":"R2","type":"numeric","align":"center"},{"id":"statistic","name":"statistic","type":"numeric","align":"center"},{"id":"p.value","name":"p.value","type":"character","align":"center"}],"groupBy":["subset"],"pagination":false,"defaultExpanded":true,"theme":{"color":"#222222","backgroundColor":"#ffffff","borderColor":"#dddddd","borderWidth":"1px","stripedColor":"#dddddd","highlightColor":"#f0f0f0","cellPadding":5,"tableStyle":{"fontSize":14,"borderBottom":"3px solid #222222"},"headerStyle":{"borderWidth":"3px","paddingTop":"12px","verticalAlign":"bottom","textAlign":"bottom","background":"#ffffff","textTransform":"uppercase","borderColor":"#222222","color":"#000000","&:hover":{"background":"#dddddd"},"&[aria-sort='ascending'], &[aria-sort='descending']":{"background":"#5b5e5f","color":"#ffffff"},"borderColor.1":"#333","fontSize":12},"groupHeaderStyle":{"&:not(:empty)":{"paddingBottom":"3px","verticalAlign":"bottom","textAlign":"bottom","backgroundColor":"#ffffff","textTransform":"uppercase","fontSize":12,"color":"#222222"}},"rowSelectedStyle":{"backgroundColor":"#dddddd"},"cellStyle":{"display":"flex","flexDirection":"column","justifyContent":"center"},"inputStyle":{"backgroundColor":"#ffffff","color":"#222222"},"searchInputStyle":{"textTransform":"uppercase","color":"#222222","fontSize":"14px"},"paginationStyle":{"textTransform":"uppercase","fontSize":"14px"},"pageButtonStyle":{"textTransform":"uppercase","fontSize":"14px"}},"dataKey":"2ca8f6f8fef02dca8680252b21b05b65"},"children":[]},"class":"reactR_markup"},"evals":[],"jsHooks":[]}</script>
+<div class="reactable html-widget html-fill-item-overflow-hidden html-fill-item" id="htmlwidget-515ef7e8db80151fab4d" style="width:auto;height:auto;"></div>
+<script type="application/json" data-for="htmlwidget-515ef7e8db80151fab4d">{"x":{"tag":{"name":"Reactable","attribs":{"data":{"subset":["atauro_AG_","atauro_AG_","atauro_AG_","atauro_GN_","atauro_GN_","atauro_GN_","timor_AG_","timor_AG_","timor_AG_","timor_GN_","timor_GN_","timor_GN_"],"term":["clusters","Residual","Total","clusters","Residual","Total","clusters","Residual","Total","clusters","Residual","Total"],"df":[4,4263,4267,4,7839,7843,4,3793,3797,4,6118,6122],"SumOfSqs":[10282.81,1696.62,11979.43,15595.87,3431.6,19027.47,24165.4,4244.24,28409.64,52086.36,4617.77,56704.14],"R2":[0.86,0.14,1,0.82,0.18,1,0.85,0.15,1,0.92,0.08,1],"statistic":[6459.27,"NA","NA",8906.63,"NA","NA",5399.05,"NA","NA",17252.06,"NA","NA"],"p.value":["< 0.001",null,null,"< 0.001",null,null,"< 0.001",null,null,"< 0.001",null,null]},"columns":[{"id":"subset","name":"subset","type":"character","align":"center","minWidth":120},{"id":"term","name":"term","type":"character","align":"center"},{"id":"df","name":"df","type":"numeric","align":"center"},{"id":"SumOfSqs","name":"SumOfSqs","type":"numeric","align":"center"},{"id":"R2","name":"R2","type":"numeric","align":"center"},{"id":"statistic","name":"statistic","type":"numeric","align":"center"},{"id":"p.value","name":"p.value","type":"character","align":"center"}],"groupBy":["subset"],"pagination":false,"defaultExpanded":true,"theme":{"color":"#222222","backgroundColor":"#ffffff","borderColor":"#dddddd","borderWidth":"1px","stripedColor":"#dddddd","highlightColor":"#f0f0f0","cellPadding":5,"tableStyle":{"fontSize":14,"borderBottom":"3px solid #222222"},"headerStyle":{"borderWidth":"3px","paddingTop":"12px","verticalAlign":"bottom","textAlign":"bottom","background":"#ffffff","textTransform":"uppercase","borderColor":"#222222","color":"#000000","&:hover":{"background":"#dddddd"},"&[aria-sort='ascending'], &[aria-sort='descending']":{"background":"#5b5e5f","color":"#ffffff"},"borderColor.1":"#333","fontSize":12},"groupHeaderStyle":{"&:not(:empty)":{"paddingBottom":"3px","verticalAlign":"bottom","textAlign":"bottom","backgroundColor":"#ffffff","textTransform":"uppercase","fontSize":12,"color":"#222222"}},"rowSelectedStyle":{"backgroundColor":"#dddddd"},"cellStyle":{"display":"flex","flexDirection":"column","justifyContent":"center"},"inputStyle":{"backgroundColor":"#ffffff","color":"#222222"},"searchInputStyle":{"textTransform":"uppercase","color":"#222222","fontSize":"14px"},"paginationStyle":{"textTransform":"uppercase","fontSize":"14px"},"pageButtonStyle":{"textTransform":"uppercase","fontSize":"14px"}},"dataKey":"2ca8f6f8fef02dca8680252b21b05b65"},"children":[]},"class":"reactR_markup"},"evals":[],"jsHooks":[]}</script>
 </div>
 <div id="xgboost-model-not-updated" class="section level3 hasAnchor" number="5.2.2">
 <h3><span class="header-section-number">5.2.2</span> XGBoost model (not updated)<a href="profiles.html#xgboost-model-not-updated" class="anchor-section" aria-label="Anchor link to header"></a></h3>

diff --git a/docs/distribution.html b/docs/distribution.html
@@ -6,7 +6,7 @@
   <meta http-equiv="X-UA-Compatible" content="IE=edge" />
   <title>4 Nutrients distribution | Modelling scenarios for nutrient-sensitive fisheries management</title>
   <meta name="description" content="4 Nutrients distribution | Modelling scenarios for nutrient-sensitive fisheries management" />
-  <meta name="generator" content="bookdown 0.33 and GitBook 2.6.7" />
+  <meta name="generator" content="bookdown 0.36 and GitBook 2.6.7" />
 
   <meta property="og:title" content="4 Nutrients distribution | Modelling scenarios for nutrient-sensitive fisheries management" />
   <meta property="og:type" content="book" />
@@ -62,6 +62,10 @@
 
 
 
+<style type="text/css">
+  
+  div.hanging-indent{margin-left: 1.5em; text-indent: -1.5em;}
+</style>
 
 <link rel="stylesheet" href="style.css" type="text/css" />
 </head>

diff --git a/docs/simple.html b/docs/simple.html
@@ -6,7 +6,7 @@
   <meta http-equiv="X-UA-Compatible" content="IE=edge" />
   <title>6 In simple terms | Modelling scenarios for nutrient-sensitive fisheries management</title>
   <meta name="description" content="6 In simple terms | Modelling scenarios for nutrient-sensitive fisheries management" />
-  <meta name="generator" content="bookdown 0.33 and GitBook 2.6.7" />
+  <meta name="generator" content="bookdown 0.36 and GitBook 2.6.7" />
 
   <meta property="og:title" content="6 In simple terms | Modelling scenarios for nutrient-sensitive fisheries management" />
   <meta property="og:type" content="book" />
@@ -62,6 +62,10 @@
 
 
 
+<style type="text/css">
+  
+  div.hanging-indent{margin-left: 1.5em; text-indent: -1.5em;}
+</style>
 
 <link rel="stylesheet" href="style.css" type="text/css" />
 </head>

diff --git a/docs/404.html b/docs/404.html
@@ -6,7 +6,7 @@
   <meta http-equiv="X-UA-Compatible" content="IE=edge" />
   <title>Page not found | Modelling scenarios for nutrient-sensitive fisheries management</title>
   <meta name="description" content="Page not found | Modelling scenarios for nutrient-sensitive fisheries management" />
-  <meta name="generator" content="bookdown 0.33 and GitBook 2.6.7" />
+  <meta name="generator" content="bookdown 0.36 and GitBook 2.6.7" />
 
   <meta property="og:title" content="Page not found | Modelling scenarios for nutrient-sensitive fisheries management" />
   <meta property="og:type" content="book" />
@@ -62,6 +62,10 @@
 
 
 
+<style type="text/css">
+  
+  div.hanging-indent{margin-left: 1.5em; text-indent: -1.5em;}
+</style>
 
 <link rel="stylesheet" href="style.css" type="text/css" />
 </head>

diff --git a/docs/references.html b/docs/references.html
@@ -6,7 +6,7 @@
   <meta http-equiv="X-UA-Compatible" content="IE=edge" />
   <title>References | Modelling scenarios for nutrient-sensitive fisheries management</title>
   <meta name="description" content="References | Modelling scenarios for nutrient-sensitive fisheries management" />
-  <meta name="generator" content="bookdown 0.33 and GitBook 2.6.7" />
+  <meta name="generator" content="bookdown 0.36 and GitBook 2.6.7" />
 
   <meta property="og:title" content="References | Modelling scenarios for nutrient-sensitive fisheries management" />
   <meta property="og:type" content="book" />
@@ -62,6 +62,10 @@
 
 
 
+<style type="text/css">
+  
+  div.hanging-indent{margin-left: 1.5em; text-indent: -1.5em;}
+</style>
 
 <link rel="stylesheet" href="style.css" type="text/css" />
 </head>

diff --git a/docs/data.html b/docs/data.html
@@ -6,7 +6,7 @@
   <meta http-equiv="X-UA-Compatible" content="IE=edge" />
   <title>2 Data | Modelling scenarios for nutrient-sensitive fisheries management</title>
   <meta name="description" content="2 Data | Modelling scenarios for nutrient-sensitive fisheries management" />
-  <meta name="generator" content="bookdown 0.33 and GitBook 2.6.7" />
+  <meta name="generator" content="bookdown 0.36 and GitBook 2.6.7" />
 
   <meta property="og:title" content="2 Data | Modelling scenarios for nutrient-sensitive fisheries management" />
   <meta property="og:type" content="book" />
@@ -62,6 +62,10 @@
 
 
 
+<style type="text/css">
+  
+  div.hanging-indent{margin-left: 1.5em; text-indent: -1.5em;}
+</style>
 
 <link rel="stylesheet" href="style.css" type="text/css" />
 </head>

diff --git a/docs/index.html b/docs/index.html
@@ -6,7 +6,7 @@
   <meta http-equiv="X-UA-Compatible" content="IE=edge" />
   <title>Modelling scenarios for nutrient-sensitive fisheries management</title>
   <meta name="description" content="Modelling scenarios for nutrient-sensitive fisheries management" />
-  <meta name="generator" content="bookdown 0.33 and GitBook 2.6.7" />
+  <meta name="generator" content="bookdown 0.36 and GitBook 2.6.7" />
 
   <meta property="og:title" content="Modelling scenarios for nutrient-sensitive fisheries management" />
   <meta property="og:type" content="book" />
@@ -62,6 +62,10 @@
 
 
 
+<style type="text/css">
+  
+  div.hanging-indent{margin-left: 1.5em; text-indent: -1.5em;}
+</style>
 
 <link rel="stylesheet" href="style.css" type="text/css" />
 </head>
